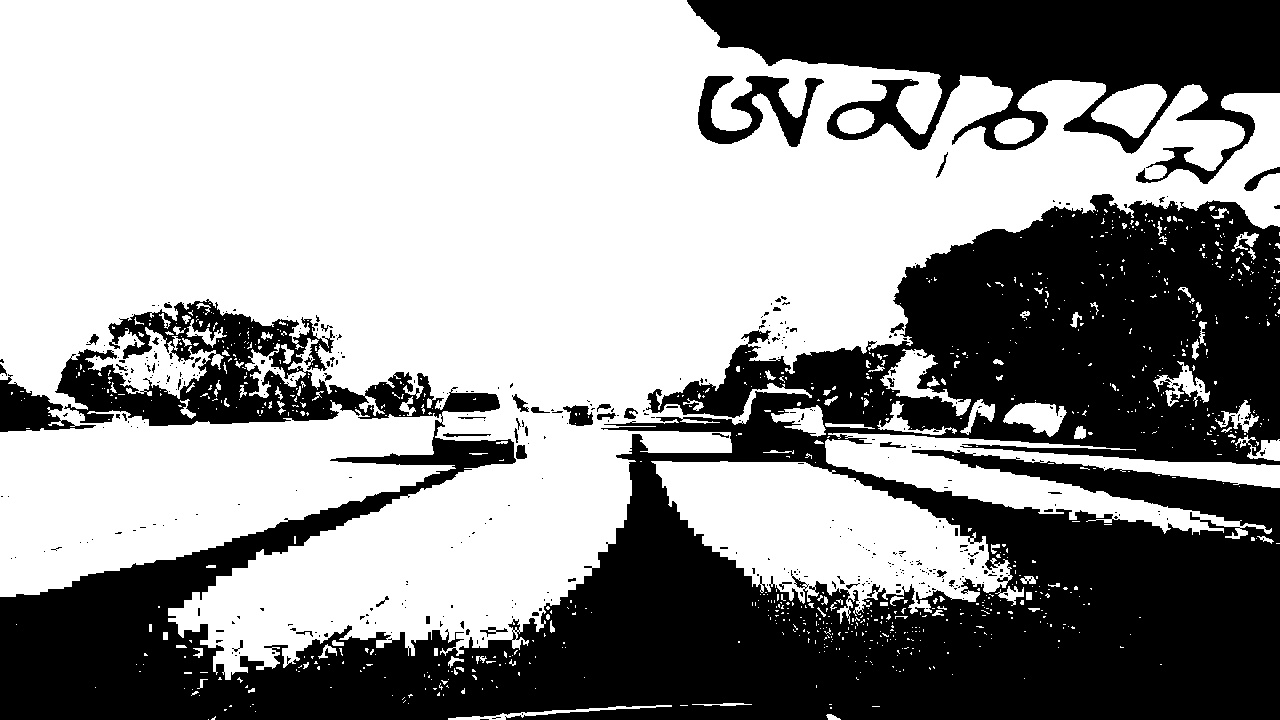
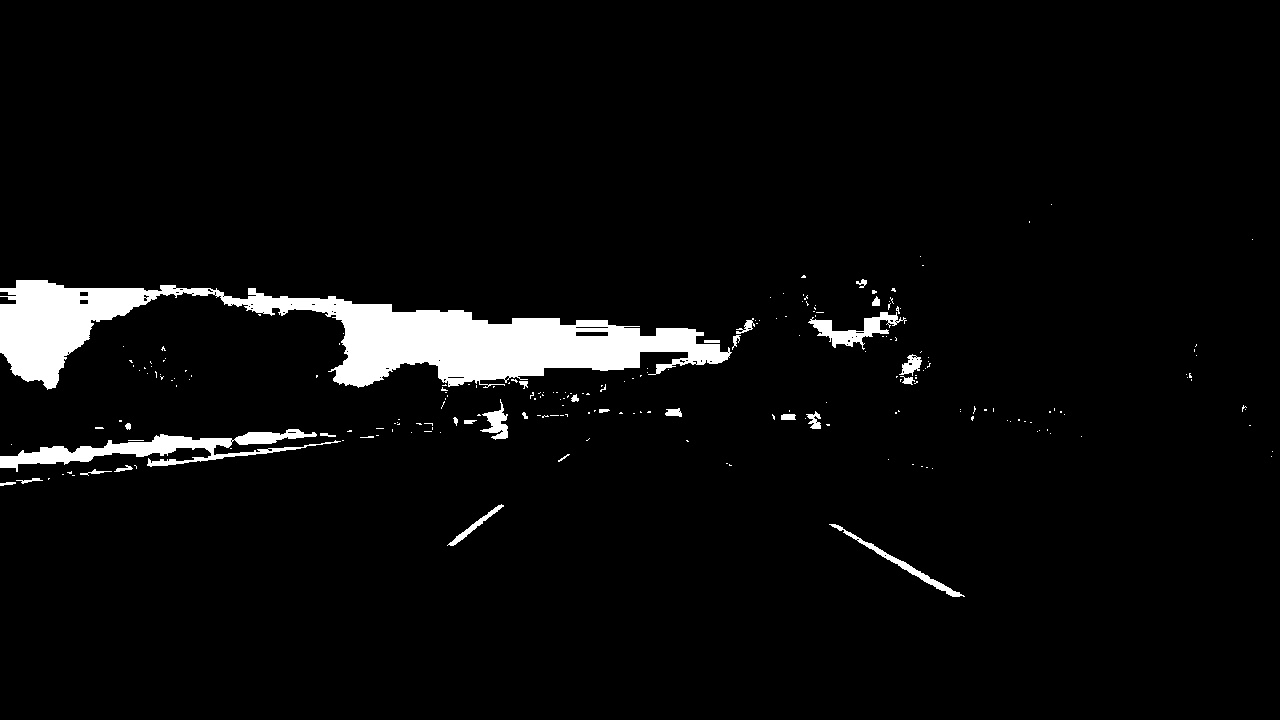
Finish HLS, cannyEdge TRACKBAR.

diff --git a/cannyEdge_trackbar.cpp b/cannyEdge_trackbar.cpp
@@ -15,9 +15,9 @@ int main(int argc, char **argv)
     char imgOutPath[256];
 
     char srcDir[100];
-    char hlsOutDir[100];
+    char OutDir[100];
 
-    Mat img, imgHLS, imgMasked;
+    Mat imgMasked, imgBlur, imgCanny;
     int rtnKey = 0;
 
     memset(curPath, 0, sizeof(curPath));
@@ -41,56 +41,48 @@ int main(int argc, char **argv)
         memset(imgReadPath, 0, sizeof(imgReadPath));
         memset(imgOutPath, 0, sizeof(imgOutPath));
         memset(srcDir, 0, sizeof(srcDir));
-        memset(hlsOutDir, 0, sizeof(hlsOutDir));
+        memset(OutDir, 0, sizeof(OutDir));
 
         strcpy(srcDir, "/data/imgSRC/");
-        strcpy(hlsOutDir, HLS_outDIR);
+        strcpy(OutDir, CANNY_outDIR);
 
         makeTargetPath(curPath, srcDir, imgSrcPath);
-        makeTargetPath(curPath, hlsOutDir, imgOutPath);
+        makeTargetPath(curPath, OutDir, imgOutPath);
         makeTargetPath(imgSrcPath, argv[1], imgReadPath);
     }
 
     // create window.
-    namedWindow(HLS_TRACKBAR, WINDOW_NORMAL);
+    namedWindow(CANNY_TRACKBAR, WINDOW_NORMAL);
 
     // create new trackbar.
-    createTrackbar("hmin : ", HLS_TRACKBAR, &hmin, 179);
-    createTrackbar("lmin : ", HLS_TRACKBAR, &lmin, 255);
-    createTrackbar("smin : ", HLS_TRACKBAR, &smin, 255);
-    createTrackbar("hmax : ", HLS_TRACKBAR, &hmax, 179);
-    createTrackbar("lmax : ", HLS_TRACKBAR, &lmax, 255);
-    createTrackbar("smax : ", HLS_TRACKBAR, &smax, 255);
+    createTrackbar("lowThres : ", CANNY_TRACKBAR, &lowThres, 200);
+    createTrackbar("highThres : ", CANNY_TRACKBAR, &highThres, 200);
 
     while (true)
     {
-        // read origin img
-        img = imread(imgReadPath);
-        if (isImgEmpty(img, imgReadPath))
+        /* read origin img */
+        imgMasked = imread(imgReadPath);
+        if (isImgEmpty(imgMasked, imgReadPath))
         {
             return 0;
         }
 
-        // convert color space to HLS.
-        cvtColor(img, imgHLS, COLOR_BGR2HLS);
+        /* Blur img and Canny Edge function run. */
+        GaussianBlur(imgMasked, imgBlur, Size(kernelSize, kernelSize), kernelSize, kernelSize);
+        Canny(imgBlur, imgCanny, lowThres, highThres);
 
-        // masking img with specific color elements.
-        Scalar lowerb_(hmin, lmin, smin);
-        Scalar upperb_(hmax, lmax, smax);
-        inRange(imgHLS, lowerb_, upperb_, imgMasked);
+        /* show current masking color boundary. */
+        show_cannyEdgeValue(lowThres, highThres);
 
-        // show current masking color boundary.
-        show_HLSValue(hmin, lmin, smin, hmax, lmax, smax);
-
-        // show masked img.
-        imshow("imgMasked", imgMasked);
+        // show origin and cannyEdge img.
+        imshow("imgCanny", imgCanny);
         rtnKey = waitKey(1);
 
-        // save masked img when esc key is pressed.
+        /* save masked img when esc key is pressed. */
         if (rtnKey == 27)
         {
-            strcat(imgOutPath, HLS_OUTPUT);
-            imwrite(imgOutPath, imgMasked);
+            strcat(imgOutPath, CANNY_OUTPUT);
+            imwrite(imgOutPath, imgCanny);
             return 0;
         }
     }

diff --git a/commonFunction.cpp b/commonFunction.cpp
@@ -1,0 +1,48 @@
+#include <iostream>
+#include "commonFunction.hpp"
+
+using namespace std;
+
+int isImgEmpty(Mat imgSrc, char *imgReadPath)
+{
+    if (imgSrc.empty())
+    {
+        cout << "IMG LOADED FAILED :: CHECK imgSRC Folder." << endl;
+        cout << "ENTERED IMG PATH :: " << imgReadPath << endl;
+        return 100;
+    }
+    else
+    {
+        return 0;
+    }
+}
+
+void show_cannyEdgeValue(int lowThres,
+                         int highThres)
+{
+    cout << "lowThres : " << lowThres
+         << "\thighThres : " << highThres
+         << endl;
+}
+
+void show_HLSValue(int hmin,
+                   int lmin,
+                   int smin,
+                   int hmax,
+                   int lmax,
+                   int smax)
+{
+    cout << "hmin : " << hmin
+         << "\tlmin : " << lmin
+         << "\tsmin : " << smin
+         << "\thmax : " << hmax
+         << "\tlmax : " << lmax
+         << "\tsmax : " << smax
+         << endl;
+}
+
+void makeTargetPath(char *path1, char *path2, char *dstPath)
+{
+    strcpy(dstPath, path1);
+    strcat(dstPath, path2);
+}

diff --git a/variables.hpp b/variables.hpp
@@ -1,0 +1,29 @@
+#ifndef __HLS_HEADER__
+#define __HLS_HEADER__
+
+#define HLS_TRACKBAR "HLS_trackbar"
+#define CANNY_TRACKBAR "CANNY_trackbar"
+
+#define HLS_outDIR "/data/HLS/"
+#define CANNY_outDIR "/data/CANNYEDGE/"
+
+#define HLS_OUTPUT "HLS_maskedImg.jpg"
+#define CANNY_OUTPUT "CANNY_Img.jpg"
+
+// HLS min, max value initializing.
+int hmin = 0;
+int lmin = 0;
+int smin = 0;
+int hmax = 179;
+int lmax = 255;
+int smax = 255;
+// hmin : 34	lmin : 205	smin : 15	hmax : 63	lmax : 255	smax : 65
+
+// cannyEdge Threshold value initializing.
+int lowThres = 50;
+int highThres = 150;
+// lowThres : 33	highThres : 176
+
+int kernelSize = 11;
+
+#endif

diff --git a/commonFunction.hpp b/commonFunction.hpp
@@ -1,0 +1,21 @@
+#ifndef __COMMON_HEADER__
+#define __COMMON_HEADER__
+
+#include "CV_header.hpp"
+
+using namespace cv;
+
+int isImgEmpty(Mat imgSrc, char *imgReadPath);
+void makeTargetPath(char *path1, char *path2, char *dstPath);
+
+void show_cannyEdgeValue(int lowThres,
+                         int highThres);
+
+void show_HLSValue(int hmin,
+                   int lmin,
+                   int smin,
+                   int hmax,
+                   int lmax,
+                   int smax);
+
+#endif

diff --git a/README.md b/README.md
@@ -1,1 +1,6 @@
 # TRACKBAR - FIND PARAMETERS.(@OPENCV PROJECT.)
+
+## It has 2 executable files.
+
+1. HLS_trackbar(colorPicker)
+2. cannyEdge_trackbar
